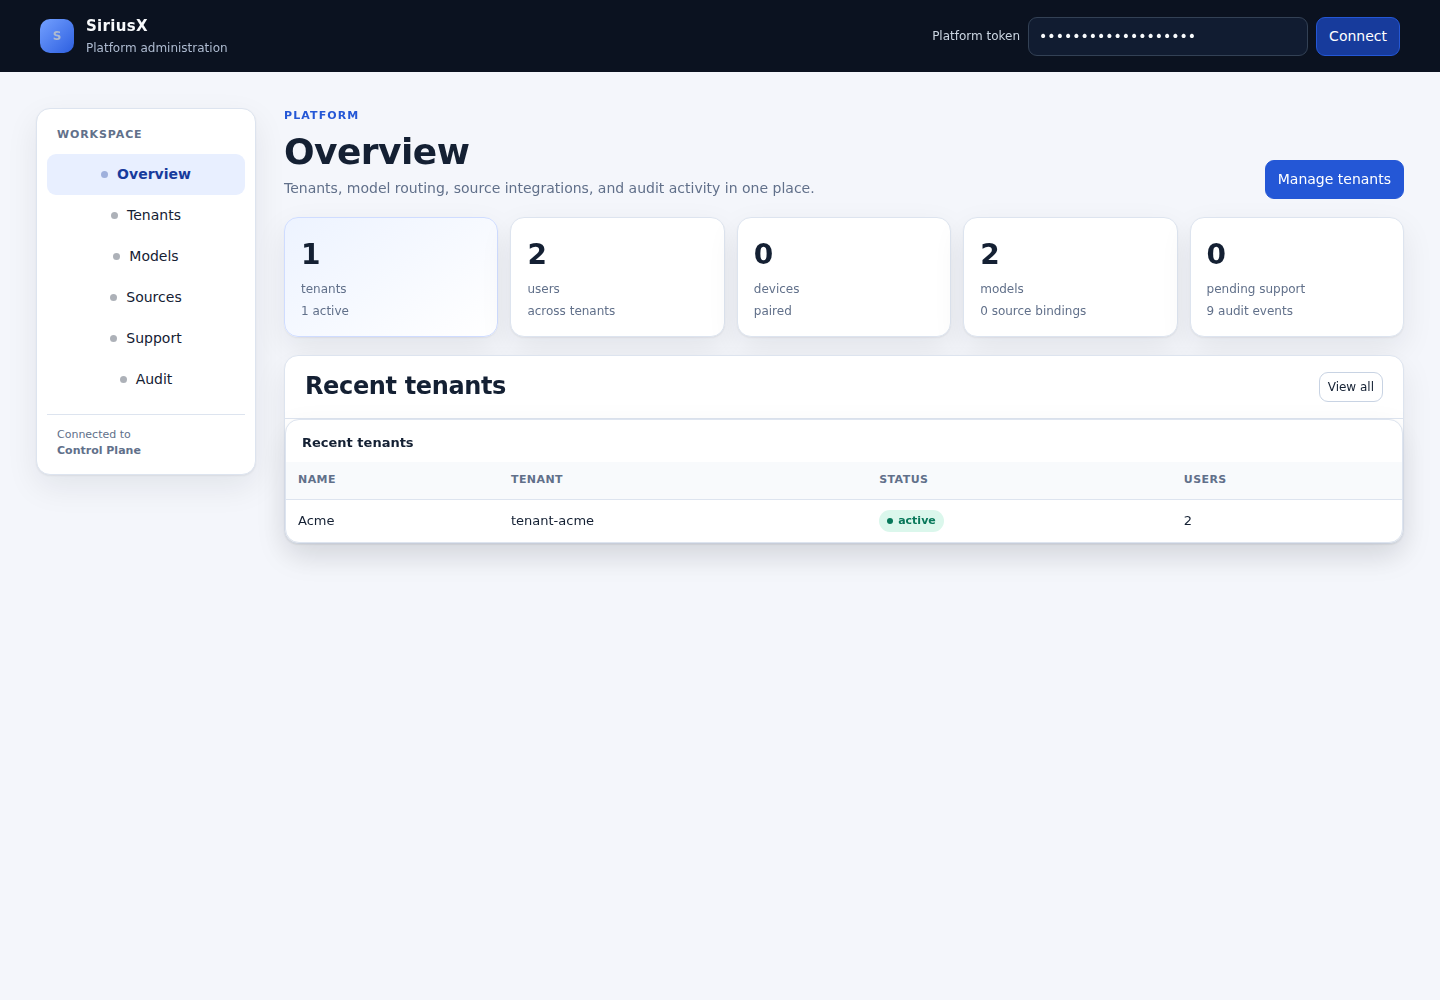
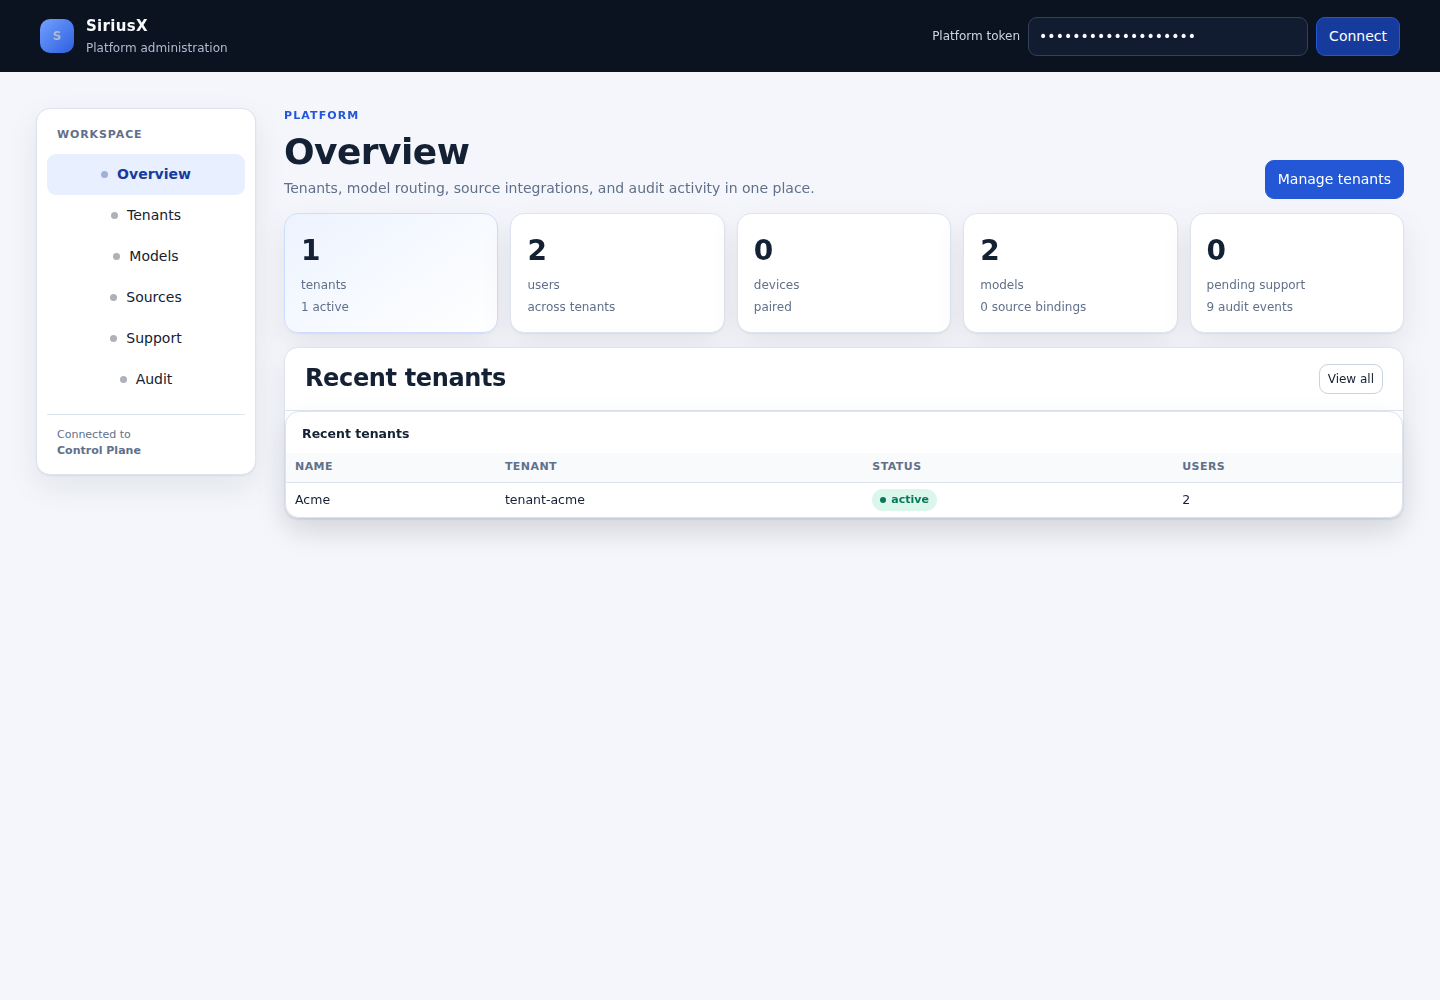
feat: add dense admin navigation and tenant filters

diff --git a/apps/admin-web/src/main.ts b/apps/admin-web/src/main.ts
@@ -16,6 +16,8 @@ const tokenInput = document.getElementById('token') as HTMLInputElement
 const loadButton = document.getElementById('load') as HTMLButtonElement
 const errorBox = document.getElementById('error')!
 let selectedTenant: string | undefined
+let tenantQuery = ''
+let tenantStatus = ''
 
 function showError(error: unknown): void {
   errorBox.textContent = error instanceof Error ? error.message : String(error)
@@ -106,7 +108,7 @@ function renderShell(): void {
     <div class="workspace">
       <aside class="sidenav">
         <div class="nav-label">Workspace</div>
-        <nav aria-label="Platform administration">
+        <nav aria-label="Platform administration" id="admin-nav">
           <button class="nav-button" type="button" data-view="overview" aria-current="page"><span class="dot"></span>Overview</button>
           <button class="nav-button" type="button" data-view="tenants"><span class="dot"></span>Tenants</button>
           <button class="nav-button" type="button" data-view="models"><span class="dot"></span>Models</button>
@@ -117,6 +119,7 @@ function renderShell(): void {
         <div class="nav-foot">Connected to<br><strong>Control Plane</strong></div>
       </aside>
       <div class="content">
+        <div class="mobile-tools"><button class="button" type="button" popovertarget="admin-nav" aria-controls="admin-nav">Menu</button><button class="button" type="button" id="density-toggle">Density</button></div>
         <section class="view active" data-view="overview" id="view-overview">
           <div class="page-head"><div><p class="eyebrow">Platform</p><h1>Overview</h1><p class="lede">Tenants, model routing, source integrations, and audit activity in one place.</p></div><button class="button primary" type="button" data-go="tenants">Manage tenants</button></div>
           <div class="metric-grid" id="metrics"></div>
@@ -124,6 +127,13 @@ function renderShell(): void {
         </section>
         <section class="view" data-view="tenants" id="view-tenants">
           <div class="page-head"><div><p class="eyebrow">Directory</p><h1>Tenants</h1><p class="lede">Provision tenants, manage status, and inspect usage.</p></div></div>
+          <search class="toolbar" aria-label="Filter tenants">
+            <form id="tenant-filters" class="form">
+              <div class="form-field"><label for="tenant-filter">Search tenants</label><input id="tenant-filter" type="search" placeholder="Name, ID, or issuer" autocomplete="off"></div>
+              <div class="form-field compact-field"><label for="tenant-status-filter">Status</label><select id="tenant-status-filter"><option value="">All</option><option value="active">Active</option><option value="suspended">Suspended</option></select></div>
+              <output id="tenant-count" class="muted" for="tenant-filter tenant-status-filter"></output>
+            </form>
+          </search>
           <section id="create-tenant" class="card form-card"><div class="section-heading"><div><h2>Create tenant</h2><p class="muted">The tenant ID must match the IdP tenant claim.</p></div></div><div class="form">
             <div class="form-field"><label for="tenant-name">Name</label><input id="tenant-name" placeholder="Acme"></div>
             <div class="form-field"><label for="tenant-issuer">IdP issuer</label><input id="tenant-issuer" placeholder="https://idp.example/realms/siriusx"></div>
@@ -174,6 +184,8 @@ function renderShell(): void {
 function showView(view: string): void {
   for (const element of document.querySelectorAll<HTMLElement>('.view')) element.classList.toggle('active', element.dataset.view === view)
   for (const element of document.querySelectorAll<HTMLButtonElement>('.nav-button')) element.setAttribute('aria-current', element.dataset.view === view ? 'page' : 'false')
+  const nav = document.getElementById('admin-nav')
+  if (nav?.matches(':popover-open')) nav.hidePopover()
   document.querySelector<HTMLElement>('.content')?.scrollTo({ top: 0, behavior: 'smooth' })
 }
 
@@ -189,6 +201,36 @@ function addHandlers(): void {
   for (const item of document.querySelectorAll<HTMLButtonElement>('.nav-button, [data-go]')) {
     item.addEventListener('click', () => showView(item.dataset.view ?? item.dataset.go ?? 'overview'))
   }
+  document.getElementById('tenant-filter')!.addEventListener('input', event => { tenantQuery = (event.target as HTMLInputElement).value; renderTenants() })
+  document.getElementById('tenant-status-filter')!.addEventListener('change', event => { tenantStatus = (event.target as HTMLSelectElement).value; renderTenants() })
+  document.getElementById('tenant-filters')!.addEventListener('submit', event => event.preventDefault())
+  const density = document.getElementById('density-toggle') as HTMLButtonElement
+  const applyDensity = (value: string): void => {
+    const normalized = value === 'compact' ? 'compact' : 'comfortable'
+    document.documentElement.dataset.density = normalized
+    density.textContent = normalized === 'compact' ? 'Comfortable density' : 'Compact density'
+    localStorage.setItem('siriusx.adminDensity', normalized)
+  }
+  applyDensity(localStorage.getItem('siriusx.adminDensity') ?? 'compact')
+  density.addEventListener('click', () => applyDensity(document.documentElement.dataset.density === 'compact' ? 'comfortable' : 'compact'))
+  setupMobileNav()
+}
+
+function setupMobileNav(): void {
+  const nav = document.getElementById('admin-nav')!
+  const button = document.querySelector<HTMLButtonElement>('[popovertarget="admin-nav"]')
+  const media = matchMedia('(max-width: 820px)')
+  const sync = (): void => {
+    if (media.matches) nav.setAttribute('popover', 'auto')
+    else {
+      if (nav.matches(':popover-open')) nav.hidePopover()
+      nav.removeAttribute('popover')
+    }
+    button?.setAttribute('aria-expanded', 'false')
+  }
+  media.addEventListener('change', sync)
+  nav.addEventListener('toggle', event => button?.setAttribute('aria-expanded', String((event as ToggleEvent).newState === 'open')))
+  sync()
 }
 
 async function createTenant(): Promise<void> {
@@ -239,7 +281,15 @@ async function exportPlatformAudit(): Promise<void> {
 
 function renderTenants(): void {
   const host = document.getElementById('tenants')!
-  const rows = tenants.map(tenant => {
+  const query = tenantQuery.trim().toLowerCase()
+  const filtered = tenants.filter(tenant => {
+    const matchesQuery = query === '' || `${tenant.name} ${tenant.id} ${tenant.idpIssuer}`.toLowerCase().includes(query)
+    return matchesQuery && (tenantStatus === '' || tenant.status === tenantStatus)
+  })
+  const count = document.getElementById('tenant-count')
+  if (count !== null) count.textContent = `${filtered.length} of ${tenants.length} tenants`
+  if (filtered.length === 0) { host.replaceChildren(node('div', 'No tenants match these filters.', 'table-empty')); return }
+  const rows = filtered.map(tenant => {
     const actions = node('div', undefined, 'row')
     actions.append(button('Open', () => { selectedTenant = tenant.id; void openTenant(tenant.id).catch(showError) }))
     actions.append(button(tenant.status === 'active' ? 'Suspend' : 'Resume', async () => {

diff --git a/apps/admin-web/public/style.css b/apps/admin-web/public/style.css
@@ -337,3 +337,95 @@ dialog::backdrop { background: rgb(2 8 23 / 52%); backdrop-filter: blur(3px); }
   }
   .sidenav .nav-button { flex: 0 0 auto; }
 }
+
+/* Dense console refinements */
+:root {
+  --row-pad: 10px 12px;
+  --table-font: 13px;
+  --card-gap: 22px;
+}
+[data-density="compact"] {
+  --row-pad: 6px 9px;
+  --table-font: 12.5px;
+  --card-gap: 14px;
+}
+.view.active { gap: var(--card-gap); }
+th, td { padding: var(--row-pad); }
+table { font-size: var(--table-font); }
+.mobile-tools { display: none; align-items: center; gap: 8px; }
+.toolbar {
+  padding: 14px;
+  border: 1px solid var(--line);
+  border-radius: var(--radius);
+  background: var(--surface);
+  box-shadow: var(--shadow);
+}
+.toolbar .form { align-items: end; }
+.toolbar .form-field { max-inline-size: 360px; }
+.toolbar .compact-field { flex: 0 0 150px; }
+#tenant-count { margin-inline-start: auto; padding-block-end: 10px; }
+
+@media (max-width: 820px) {
+  .sidenav { display: contents; }
+  .mobile-tools { display: flex; }
+  .sidenav .nav-label, .sidenav .nav-foot { display: none; }
+  #admin-nav[popover] {
+    position: fixed;
+    inset: 82px 16px auto 16px;
+    gap: 4px;
+    max-block-size: calc(100dvh - 100px);
+    margin: 0;
+    padding: 8px;
+    overflow: auto;
+    border: 1px solid var(--line);
+    border-radius: var(--radius);
+    background: var(--surface);
+    box-shadow: 0 18px 48px rgb(2 8 23 / 24%);
+  }
+  #admin-nav[popover]:not(:popover-open) { display: none; }
+  #admin-nav[popover]:popover-open { display: grid; }
+  #admin-nav[popover]::backdrop { background: rgb(2 8 23 / 22%); }
+  #admin-nav[popover] .nav-button { inline-size: 100%; }
+}
+
+@media (max-width: 560px) {
+  .mobile-tools .button { flex: 1 1 auto; }
+}
+
+#tenant-detail {
+  max-block-size: 88dvh;
+  overflow: auto;
+  padding: 20px 22px 28px;
+}
+#tenant-detail > .detail {
+  border: 0;
+  border-radius: 0;
+  background: transparent;
+  box-shadow: none;
+  padding: 0;
+}
+#tenant-detail > .detail > .row:first-child {
+  position: sticky;
+  inset-block-start: -20px;
+  z-index: 3;
+  margin: -20px -22px 10px;
+  padding: 18px 22px 12px;
+  background: color-mix(in srgb, var(--surface) 96%, transparent);
+  backdrop-filter: blur(8px);
+  border-block-end: 1px solid var(--line);
+}
+#tenant-detail .grid > div {
+  min-inline-size: 0;
+  padding: 12px;
+  border: 1px solid var(--line);
+  border-radius: var(--radius-sm);
+  background: var(--surface-soft);
+}
+#tenant-detail .grid > div > .form,
+#tenant-detail .grid > div > .grid { margin-block-start: 8px; }
+#tenant-detail .grid input { inline-size: 100%; }
+#tenant-detail h3 { margin-block-start: 18px; }
+@media (max-width: 560px) {
+  #tenant-detail { padding: 14px; }
+  #tenant-detail > .detail > .row:first-child { margin: -14px -14px 10px; padding: 14px; }
+}

diff --git a/evidence/S5/62-admin-white-orange-redesign/README.md b/evidence/S5/62-admin-white-orange-redesign/README.md
@@ -10,3 +10,11 @@
 - Playwright verified Overview, Tenants, dialog open/close, Escape, mobile layout, console errors
 
 Evidence: `overview.png`, `mobile.png`, `verify.txt`, `typecheck.txt`, `build.txt`.
+
+Second pass:
+
+- Popover mobile navigation
+- Tenant search + status filter
+- Compact / comfortable density switch
+- Sticky dialog header and scrollable tenant detail
+- Dense table row tokens
